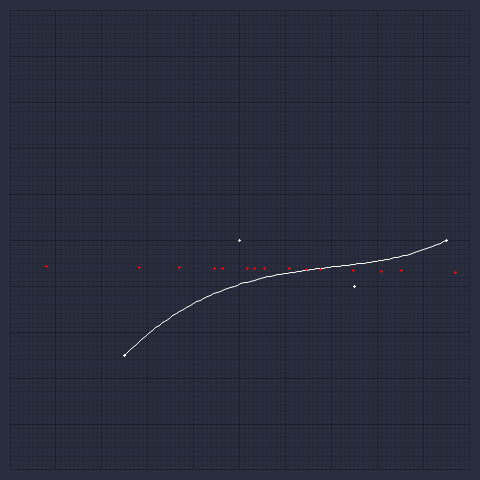
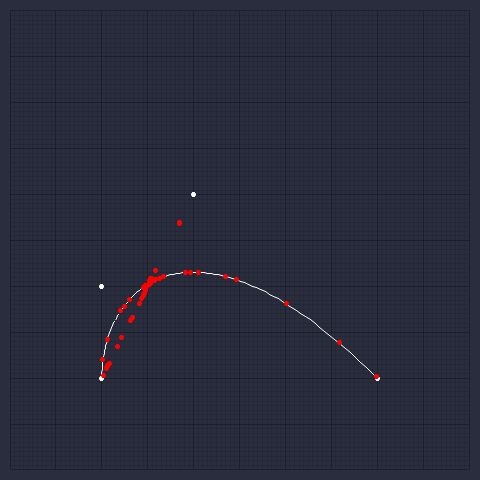
bezout resultant(wip)

diff --git a/src/lib.rs b/src/lib.rs
@@ -1,50 +1,14 @@
 use nalgebra::{DMatrix, Matrix2, Matrix2x3, Matrix3x2, Vector2, Vector3, Vector4, Matrix4};
 use plotters::prelude::*;
 use rand;
-
-use crate::bezier_implicitizer::{calc_deviation, implicit_bezier_curve, factorial, binary_coef};
-
+use crate::bezier_implicitizer::{calc_deviation, implicit_bezier_curve};
 mod bezier_implicitizer;
-mod gaussian_elimination;
-mod pesudo_inverse;
-mod qr_decomposition;
+mod bezier_curve;
+mod bezier_4;
 
 pub fn homogeneous2euclidean(h: Vector3<f64>) -> Vector2<f64> {
     assert!(h.z != 0.0);
     Vector2::new(h.x / h.z, h.y / h.z)
-}
-
-pub fn quadratic_bezier_curve(
-    p0: Vector3<f64>,
-    p1: Vector3<f64>,
-    p2: Vector3<f64>,
-    t: f64,
-) -> Vector3<f64> {
-    p0 * (1.0 - t) * (1.0 - t) + p1 * 2.0 * (1.0 - t) * t + p2 * t * t
-}
-
-pub fn cubic_bezier_curve(
-    p0: Vector3<f64>,
-    p1: Vector3<f64>,
-    p2: Vector3<f64>,
-    p3: Vector3<f64>,
-    t: f64,
-) -> Vector3<f64> {
-    let a = Vector4::new(t.powi(3), t.powi(2), t, 1.0);
-    let b = Matrix4::new(
-        -1.0,  3.0, -3.0, 1.0,
-         3.0, -6.0,  3.0, 0.0,
-        -3.0,  3.0,  0.0, 0.0, 
-         1.0,  0.0,  0.0, 0.0,
-    );
-    let c = Vector4::new(p0, p1, p2, p3);
-    let d = Vector4::new(
-        a.dot(&b.column(0)), 
-        a.dot(&b.column(1)),
-        a.dot(&b.column(2)), 
-        a.dot(&b.column(3)),
-    );
-    d.x * c.x + d.y * c.y + d.z * c.z + d.w * c.w 
 }
 
 pub fn quadratic_bezier_curve_by_line_in_pencil(
@@ -73,6 +37,7 @@ pub fn quadratic_bezier_curve_by_lines_of_pencils(
     let l1 = p2.cross(&(2.0 * p1 * t + p0 * (1.0 - t)));
     l0.cross(&l1)
 }
+
 #[test]
 fn cubic_test() {
     let bg = RGBColor(41, 45, 62);
@@ -81,25 +46,25 @@ fn cubic_test() {
 
     let mut chart = ChartBuilder::on(&root)
         .margin(10)
-        .build_cartesian_2d(-1f32..1f32, -1f32..1f32)
+        .build_cartesian_2d(-1f32..4f32, -1f32..4f32)
         .unwrap();
 
     chart.configure_mesh().draw().unwrap();
 
-    let p0 = Vector3::new(-0.5, -0.5, 1.0);
-    let p1 = Vector3::new(0.0, 0.0, 1.0);
-    let p2 = Vector3::new(0.5, -0.2, 1.0);
-    let p3 = Vector3::new(0.9, 0.0, 1.0);
+    let p0 = Vector3::new(0.0, 0.0, 1.0);
+    let p1 = Vector3::new(0.0, 1.0, 1.0);
+    let p2 = Vector3::new(1.0, 2.0, 1.0);
+    let p3 = Vector3::new(3.0, 0.0, 1.0);
     let mut points: Vec<Vector3<f64>> = vec![];
     let m1 = implicit_bezier_curve(vec![p0, p1, p2, p3]);
 
     chart
         .draw_series(
             vec![
-                Circle::new((p0.x as f32, p0.y as f32), 1.5, WHITE.filled()),
-                Circle::new((p1.x as f32, p1.y as f32), 1.5, WHITE.filled()),
-                Circle::new((p2.x as f32, p2.y as f32), 1.5, WHITE.filled()),
-                Circle::new((p3.x as f32, p3.y as f32), 1.5, WHITE.filled()),
+                Circle::new((p0.x as f32, p0.y as f32), 2.0, WHITE.filled()),
+                Circle::new((p1.x as f32, p1.y as f32), 2.0, WHITE.filled()),
+                Circle::new((p2.x as f32, p2.y as f32), 2.0, WHITE.filled()),
+                Circle::new((p3.x as f32, p3.y as f32), 2.0, WHITE.filled()),
             ]
             .into_iter(),
         )
@@ -108,7 +73,7 @@ fn cubic_test() {
         .draw_series(LineSeries::new(
             (0..101)
                 .map(|t| t as f64 / 100.0)
-                .map(|t| cubic_bezier_curve(p0, p1, p2, p3, t))
+                .map(|t| bezier_curve::bezier_curve(vec![p0, p1, p2, p3], t))
                 .map(|hp| homogeneous2euclidean(hp))
                 .map(|ep| (ep.x as f32, ep.y as f32)),
             &WHITE,
@@ -117,23 +82,23 @@ fn cubic_test() {
     
     for _ in 0..10000 {
         let p = Vector3::<f64>::new(
-            rand::random::<f64>() * 2.0 - 1.0,
-            rand::random::<f64>() * 2.0 - 1.0,
+            rand::random::<f64>() * 3.0,
+            rand::random::<f64>() * 2.0,
             1.0,
         );
-        if calc_deviation(&m1, p).unwrap().abs() < 0.02 { points.push(p); }
+        if calc_deviation(&m1, p).unwrap().abs() < 1.0 { points.push(p); }
     }
     chart
         .draw_series(
             points
                 .iter()
-                .map(|p| Circle::new((p.x as f32, p.y as f32), 1.5, RED.filled())),
+                .map(|p| Circle::new((p.x as f32, p.y as f32), 2.0, RED.filled())),
         )
         .unwrap();
 }
 
 #[test]
-fn chart_context() {
+fn quadratic_test() {
     let bg = RGBColor(41, 45, 62);
     let root = BitMapBackend::new("chart.png", (480, 480)).into_drawing_area();
     root.fill(&bg).unwrap();
@@ -214,17 +179,17 @@ fn chart_context() {
     let s01 = quadratic_bezier_curve_by_line_in_pencil(p3, p4, p5, 1.0, 0.0);
     let s10 = quadratic_bezier_curve_by_line_in_pencil(p3, p4, p5, 0.0, 1.0);
     let s11 = quadratic_bezier_curve_by_line_in_pencil(p3, p4, p5, 1.0, 1.0);
+
     print!("lines: {}, {}, {}, {}", l00, l01, l10, l11);
     let detA = |x: Vector3<f64>| l00.dot(&x) * l11.dot(&x) - l01.dot(&x) * l10.dot(&x);
     let detB = |x: Vector3<f64>| s00.dot(&x) * s11.dot(&x) - s01.dot(&x) * s10.dot(&x);
-    let detC = |x: Vector3<f64>| (l00 - s00).dot(&x) * (l11 - s11).dot(&x) - (l01 - s01).dot(&x) * (l10 - s10).dot(&x);
     for i in -100..100 {
         let t = i as f64 * 0.1;
-        assert!(detA(quadratic_bezier_curve(p0, p1, p2, t)).abs() < 1e-10);
+        assert!(detA(bezier_curve::bezier_curve(vec![p0, p1, p2], t)).abs() < 1e-10);
     }
 
     let m1 = implicit_bezier_curve(vec![p0, p1, p2]);
-    //let m2 = implicit_bezier_curve(vec![p3, p4, p5]);
+    let m2 = implicit_bezier_curve(vec![p3, p4, p5]);
 
     {
         let mut points: Vec<Vector3<f64>> = vec![];

diff --git a/src/bezier_implicitizer.rs b/src/bezier_implicitizer.rs
@@ -1,16 +1,5 @@
 use nalgebra::{DMatrix, Vector3};
-
-pub fn factorial(n: usize) -> usize {
-    let mut f = 1;
-    for i in 1..n + 1 {
-        f *= i;
-    }
-    f
-}
-
-pub fn binary_coef(n: usize, k: usize) -> usize {
-    factorial(n) / (factorial(n - k) * factorial(k))
-}
+use crate::bezier_curve::{binary_coef};
 
 pub fn implicit_bezier_curve(ctrl_points: Vec<Vector3<f64>>) -> DMatrix<Vector3<f64>> {
     let n = ctrl_points.len();
@@ -25,12 +14,18 @@ pub fn implicit_bezier_curve(ctrl_points: Vec<Vector3<f64>>) -> DMatrix<Vector3<
                 if m < n && l < m {
                     let c = (binary_coef(n - 1, l) * binary_coef(n - 1, m)) as f64;
                     line += c * (ctrl_points[l].cross(&ctrl_points[m]));
+                    /*
                     println!(
-                        "l: {}, m: {}, c: {}, line: [{}, {}, {}]",
-                        l, m, c, line.x, line.y, line.z
+                        "i: {}, j: {}, l: {}, m: {}, c: {}, line: [{}, {}, {}]",
+                        i, j, l, m, c, line.x, line.y, line.z
                     );
+                    */
                 }
             }
+                    println!(
+                        "i: {}, j: {}, line: [{}, {}, {}]",
+                        i, j, line.x, line.y, line.z
+                    );
             mtx[(i, j)] = line;
         }
     }
@@ -48,16 +43,35 @@ pub fn calc_deviation(m: &DMatrix<Vector3<f64>>, p: Vector3<f64>) -> Result<f64,
     match n {
         2 => Ok(m1.determinant()),
         3 => {
-            let mut d = DMatrix::<f64>::zeros(n, n);
-            Ok(m1.determinant())
             /*
-            println!("{}", m1.clone().remove_column(2));
-            d[(0, 0)] = m1.clone().remove_column(2).determinant();
-            d[(0, 1)] = m1.clone().remove_column(1).determinant();
-            d[(1, 0)] = m1.clone().remove_column(1).determinant();
-            d[(1, 1)] = m1.clone().remove_column(0).determinant();
-            Ok(d.determinant())
+            Ok(m1.determinant())
             */
+            let mut d = DMatrix::<f64>::zeros(2, 2);
+            let mut m3 = DMatrix::<Vector3<f64>>::from_row_slice(2, 3, &[
+                Vector3::new(-6.0, 3.0, 0.0),
+                Vector3::new(-9.0, 12.0, -9.0),
+                Vector3::new(3.0, 9.0, -9.0),
+
+                Vector3::new(0.0, 0.0, 0.0),
+                Vector3::new(0.0, 3.0, 0.0),
+                Vector3::new(3.0, 3.0, -9.0),
+            ]);
+            let mut m2 = DMatrix::<f64>::from_row_slice(2, 3, &[
+                Vector3::new(-6.0, 3.0, 0.0).dot(&p),
+                Vector3::new(-9.0, 12.0, -9.0).dot(&p),
+                Vector3::new(3.0, 9.0, -9.0).dot(&p),
+
+                Vector3::new(0.0, 0.0, 0.0).dot(&p),
+                Vector3::new(0.0, 3.0, 0.0).dot(&p),
+                Vector3::new(3.0, 3.0, -9.0).dot(&p),
+            ]);
+
+
+            d[(0, 0)] = m2.clone().remove_column(2).determinant();
+            d[(0, 1)] = m2.clone().remove_column(1).determinant();
+            d[(1, 0)] = m2.clone().remove_column(1).determinant();
+            d[(1, 1)] = m2.clone().remove_column(0).determinant();
+            Ok(d.determinant())
         },
         _ => Err("Neither n <= 1 nor n >= 4 are implemented."),
     }

diff --git a/src/bezier_4.rs b/src/bezier_4.rs
@@ -1,0 +1,47 @@
+use nalgebra::Vector3;
+use plotters::prelude::*;
+
+use crate::{
+    bezier_curve::bezier_curve,
+    bezier_implicitizer::{calc_deviation, implicit_bezier_curve},
+    homogeneous2euclidean,
+};
+
+#[test]
+fn quartic_test() {
+    let r = BitMapBackend::new("quartic.png", (480, 480)).into_drawing_area();
+    let mut c = ChartBuilder::on(&r)
+        .margin(10)
+        .build_cartesian_2d(-1f32..4f32, -1f32..4f32)
+        .unwrap();
+
+    r.fill(&RGBColor(41, 45, 62)).unwrap();
+    c.configure_mesh().draw().unwrap();
+
+    let points: Vec<Vector3<f64>> = vec![
+        Vector3::new(0.0, 0.0, 1.0),
+        Vector3::new(0.0, 1.0, 1.0),
+        Vector3::new(1.0, 2.0, 1.0),
+        Vector3::new(3.0, 2.0, 1.0),
+        Vector3::new(2.0, 0.0, 1.0),
+    ];
+
+    c.draw_series(
+        points
+            .iter()
+            .map(|p| Circle::new((p.x as f32, p.y as f32), 2.0, WHITE.filled())),
+    )
+    .unwrap();
+
+    c.draw_series(LineSeries::new(
+        (0..101)
+            .map(|t| t as f64 / 100.0)
+            .map(|t| bezier_curve(points.clone(), t))
+            .map(|hp| homogeneous2euclidean(hp))
+            .map(|ep| (ep.x as f32, ep.y as f32)),
+        &WHITE,
+    ))
+    .unwrap();
+
+    let m = implicit_bezier_curve(points);
+}

diff --git a/src/bezier_curve.rs b/src/bezier_curve.rs
@@ -1,0 +1,27 @@
+use nalgebra::Vector3;
+
+pub fn factorial(n: usize) -> usize {
+    let mut f = 1;
+    for i in 1..n + 1 {
+        f *= i;
+    }
+    f
+}
+
+pub fn binary_coef(n: usize, k: usize) -> usize {
+    factorial(n) / (factorial(n - k) * factorial(k))
+}
+
+pub fn bezier_curve(
+    p: Vec<Vector3<f64>>,
+    t: f64,
+) -> Vector3<f64> {
+    let n = p.len();
+    let mut s = Vector3::zeros();
+    for i in 0..n {
+        let j = n - 1 - i;
+        let c = binary_coef(n - 1, i) as f64;
+        s += (1.0 - t).powi(j as i32) * t.powi(i as i32) * p[i] * c;
+    }
+    s
+}

diff --git a/src/linalg/pesudo_inverse.rs b/src/linalg/pesudo_inverse.rs
@@ -1,7 +1,7 @@
 
 #[cfg(test)]
 mod tests {
-    use nalgebra::{DMatrix, Matrix2x3, Matrix2, SMatrix, Vector3, DVector};
+    use nalgebra::{DMatrix, DVector};
 
     #[test]
     fn pesudo_inverse_test() {
